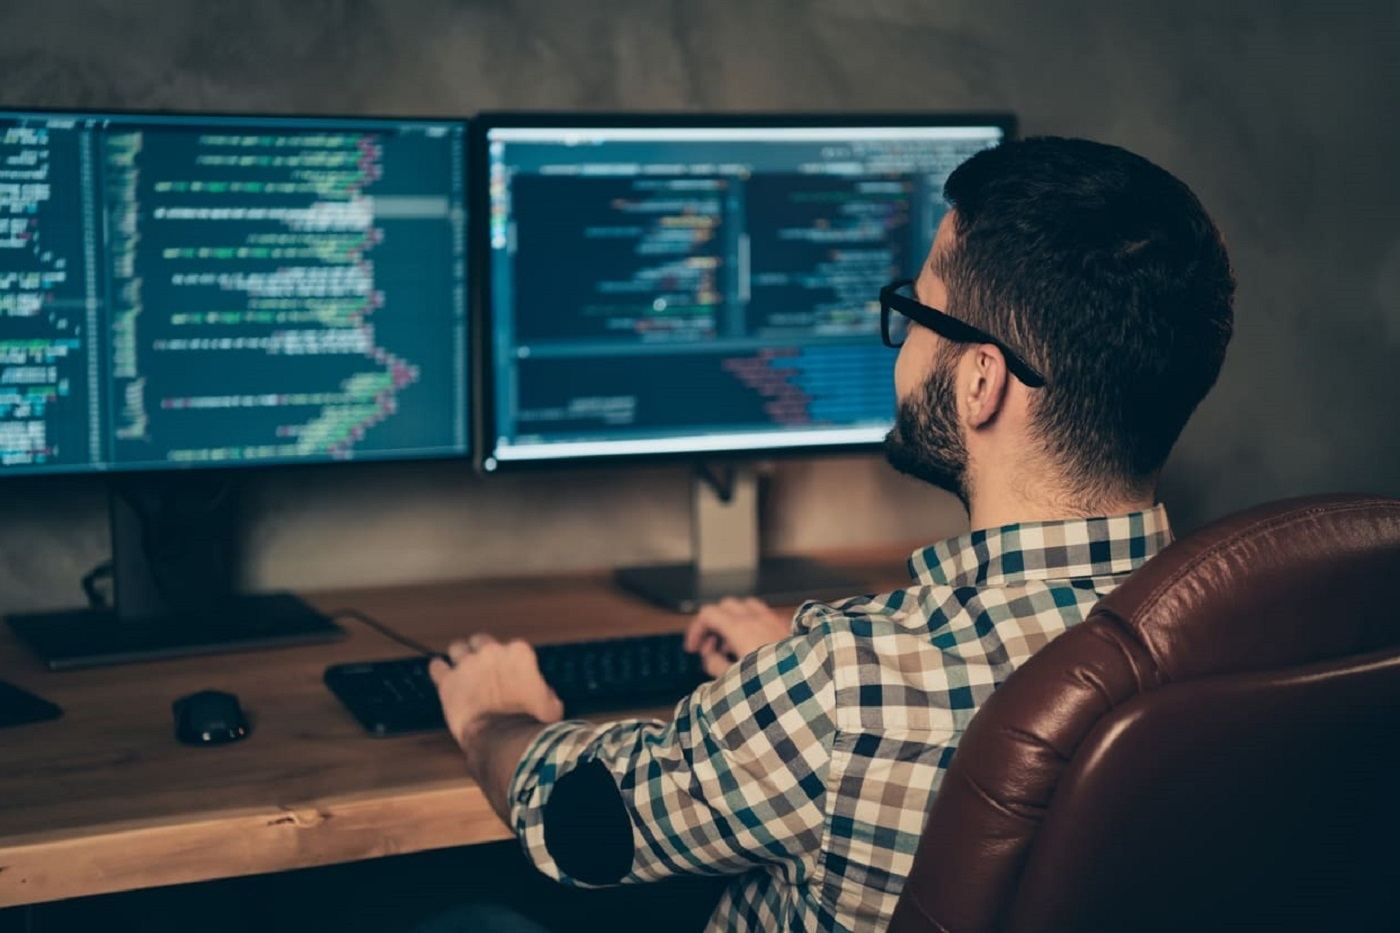
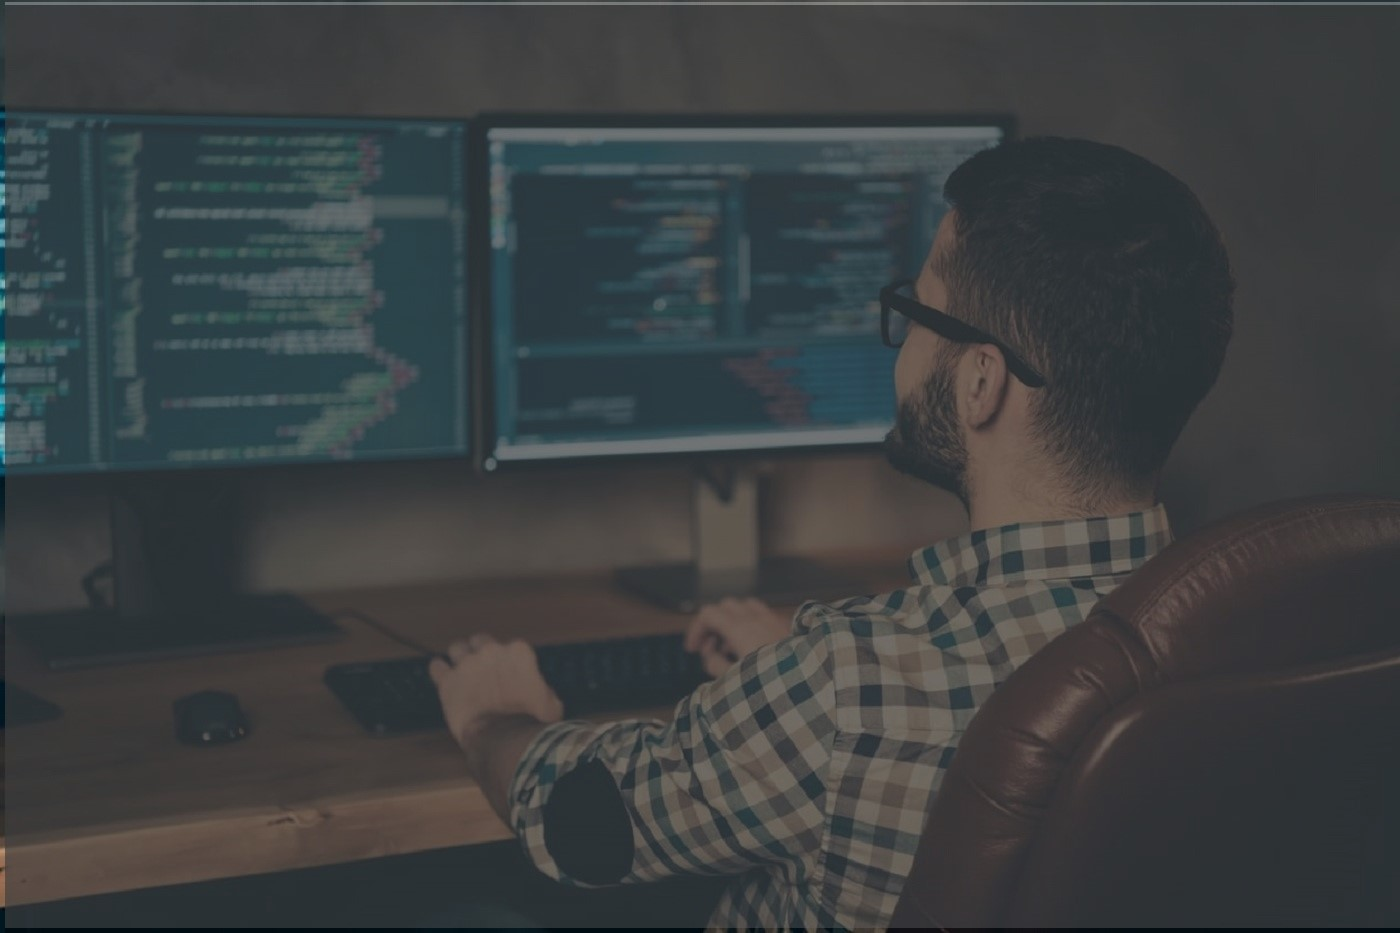
crear empresa

diff --git a/AGENDAR/wwwroot/css/site.css b/AGENDAR/wwwroot/css/site.css
@@ -1,8 +1,12 @@
 /* Please see documentation at https://docs.microsoft.com/aspnet/core/client-side/bundling-and-minification
 for details on configuring this project to bundle and minify static web assets. */
 Body {
-    background-image: url(../lib/Imagenes/persona-y-computador-4.jpg);
+    background-image: url('../lib/Imagenes/persona-y-computador-4.jpg');
     image-resolution: 300dpi;
+
+}
+.bodyCrearEmpresa, h1, label {
+    color: white;
 }
 a.navbar-brand {
   white-space: normal;
@@ -149,6 +153,7 @@ body {
 .btn-file {
     position: relative;
     overflow: hidden;
+    width: 200px;
 }
 
     .btn-file input[type=file] {
@@ -167,3 +172,12 @@ body {
         display: block;
         
     }
+.espacioBotones{
+    padding-bottom:16px;
+}
+thead {
+    background: #a5a5a5 !important;
+}
+table, th, td {
+    border: 1px solid black !important;
+}

diff --git a/AGENDAR/wwwroot/js/Empresa-1.0.js b/AGENDAR/wwwroot/js/Empresa-1.0.js
@@ -8,7 +8,7 @@ function CompletarTablaEmpresas() {
         success: function (listadoEmpresasMostrar) {
             $("#tbody-empresa").empty();
             $.each(listadoEmpresasMostrar, function (index, empresa) {
-                $("#tbody-empresa").append('<tr>' +
+                $("#tbody-empresa ").append('<tr>' +
                     '<td class="text-center">' + empresa.razonSocial + '</td>' +
                     '<td class="text-center">' + empresa.cuit + '</td>' +
                     '<td class="text-center">' + empresa.direccion + '</td>' +

diff --git a/AGENDAR/Controllers/EmpresasController.cs b/AGENDAR/Controllers/EmpresasController.cs
@@ -57,7 +57,14 @@ namespace AGENDAR.Controllers
         // GET: Empresas
         public IActionResult Index()
         {
+            var localidades = _context.Localidad.Where(p => p.Eliminado == false).ToList();
+            localidades.Add(new Localidad { LocalidadID = 0, Descripcion = "[SELECCIONE UNA LOCALIDAD]" });
+            ViewBag.LocalidadID = new SelectList(localidades.OrderBy(p => p.Descripcion), "LocalidadID", "Descripcion");
 
+            var clasificacionempresas = _context.ClasificacionEmpresa.Where(p => p.Eliminado == false).ToList();
+            clasificacionempresas.Add(new ClasificacionEmpresa { ClasificacionEmpresaID = 0, Descripcion = "[SELECCIONE TIPO DE EMPRESA]" });
+            ViewBag.ClasificacionEmpresaID = new SelectList(clasificacionempresas.OrderBy(p => p.Descripcion), "ClasificacionEmpresaID", "Descripcion");
+            return View();
             return View();
         }
         public IActionResult Create()
